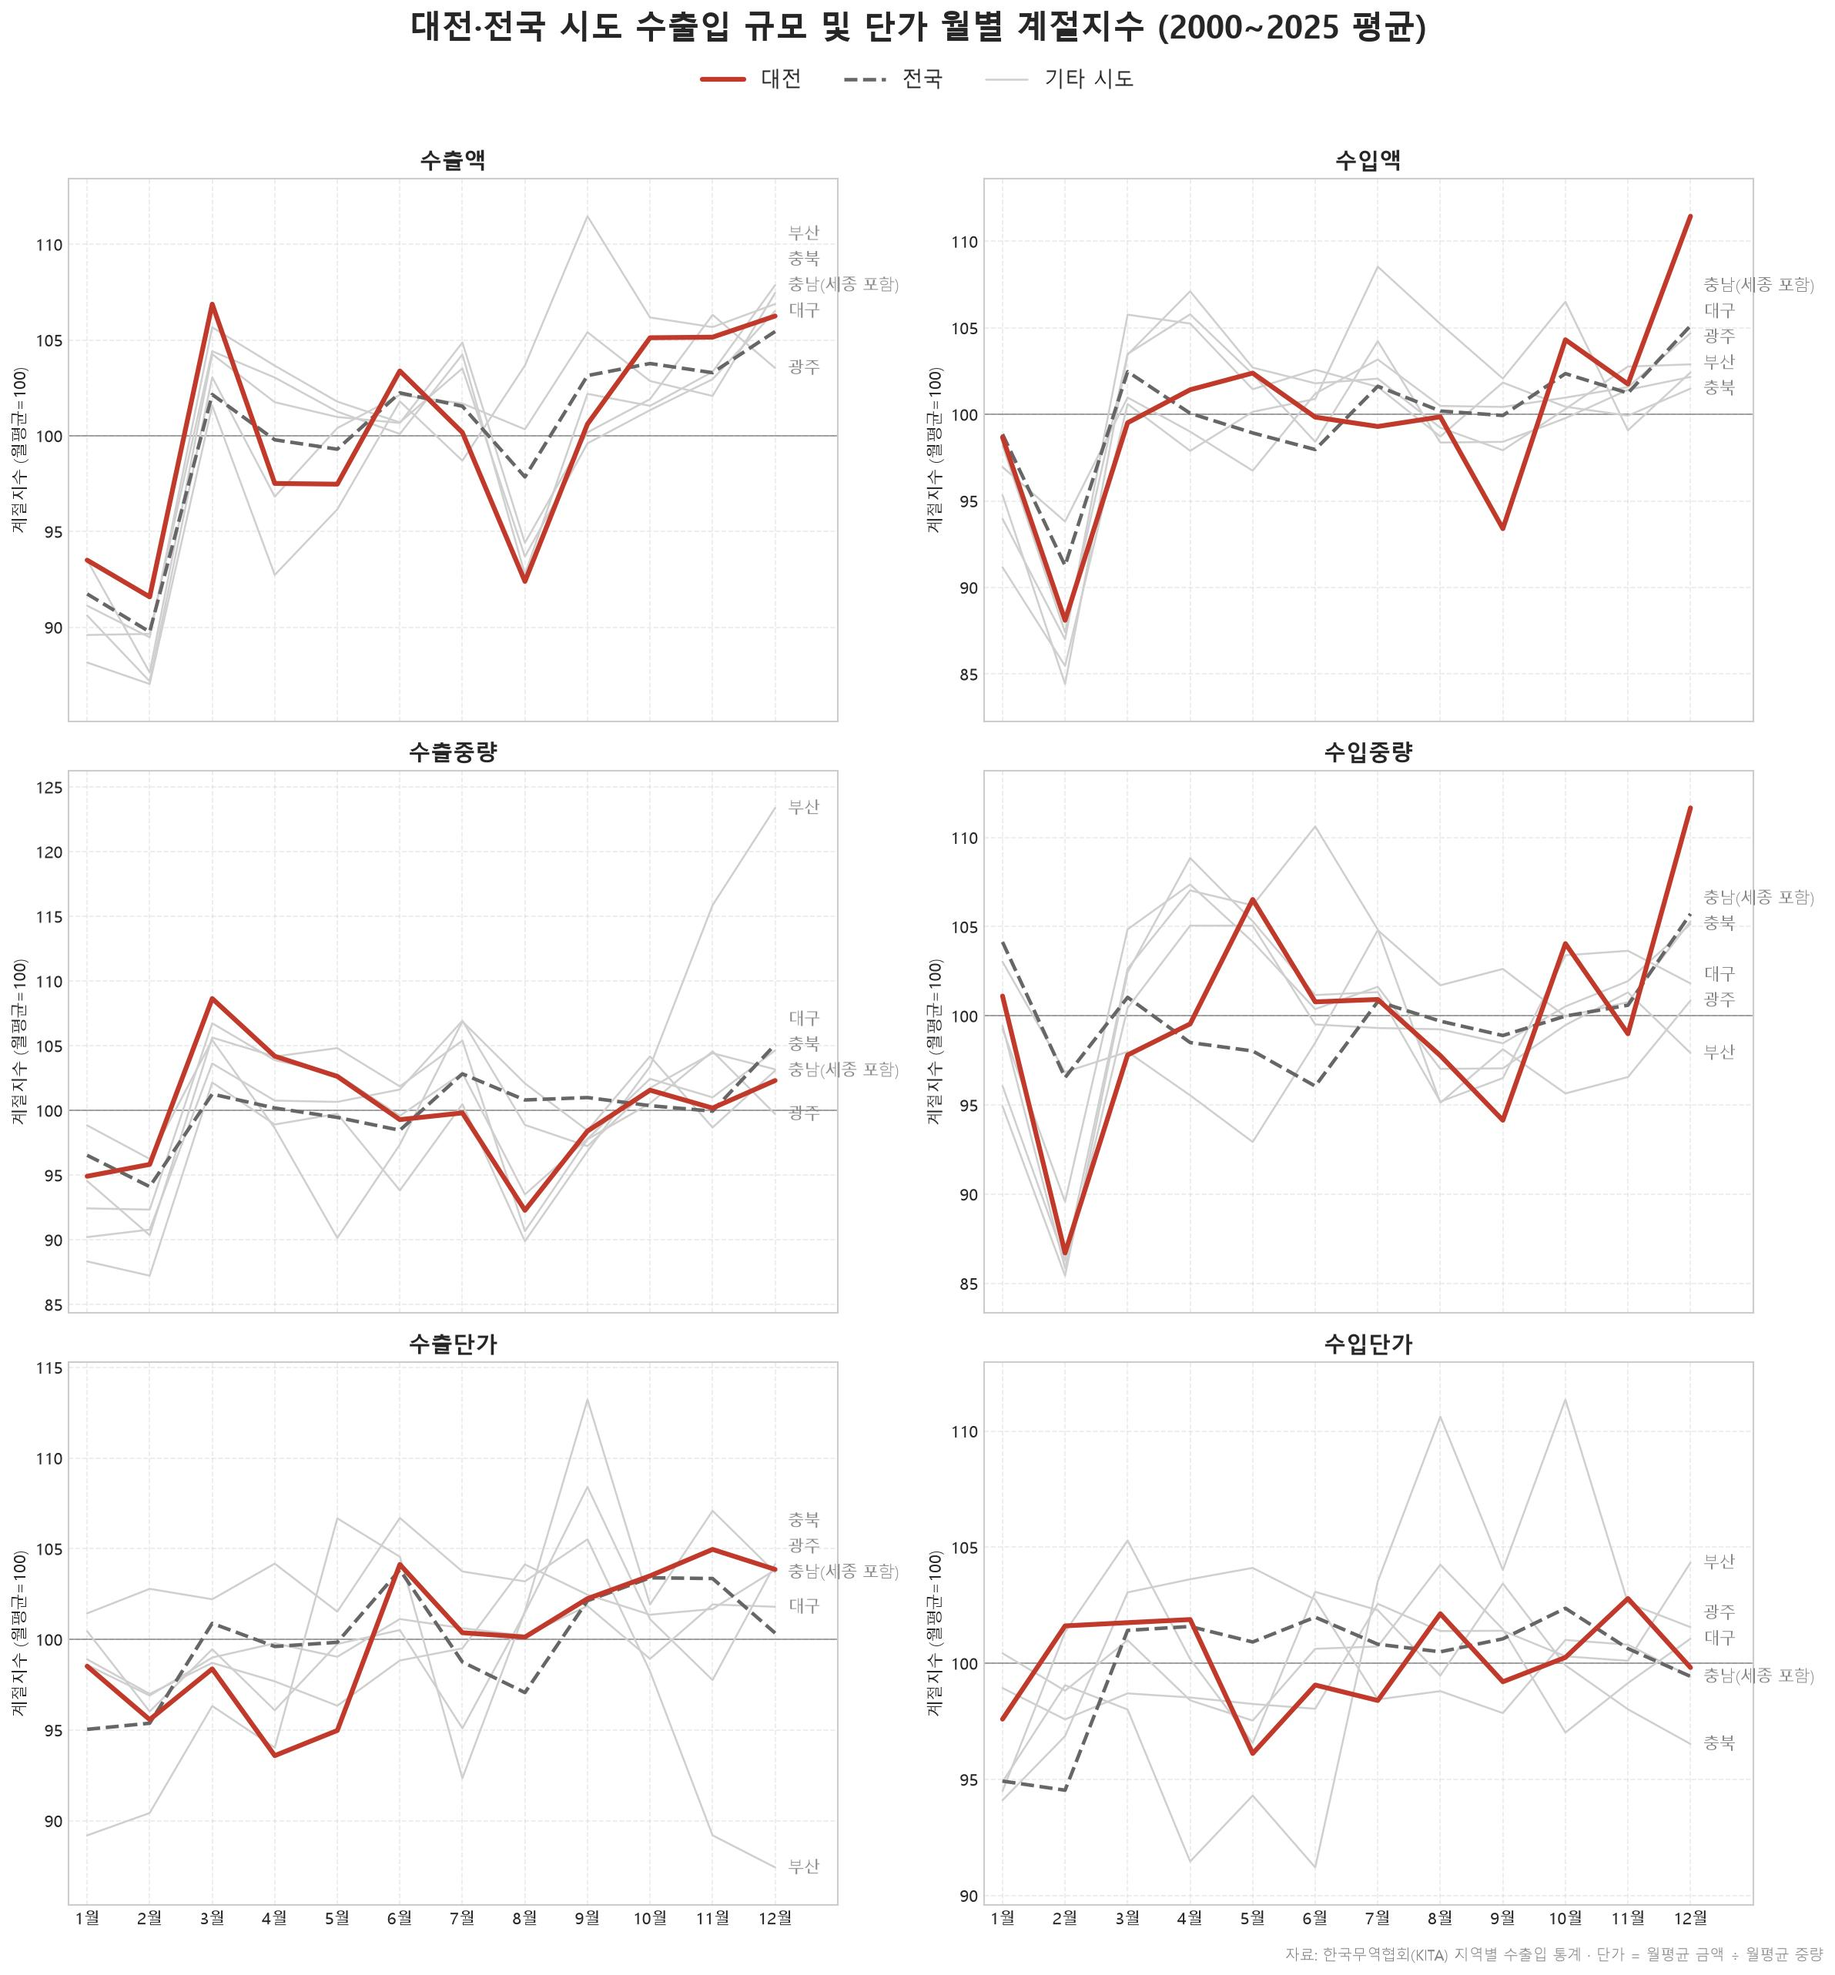
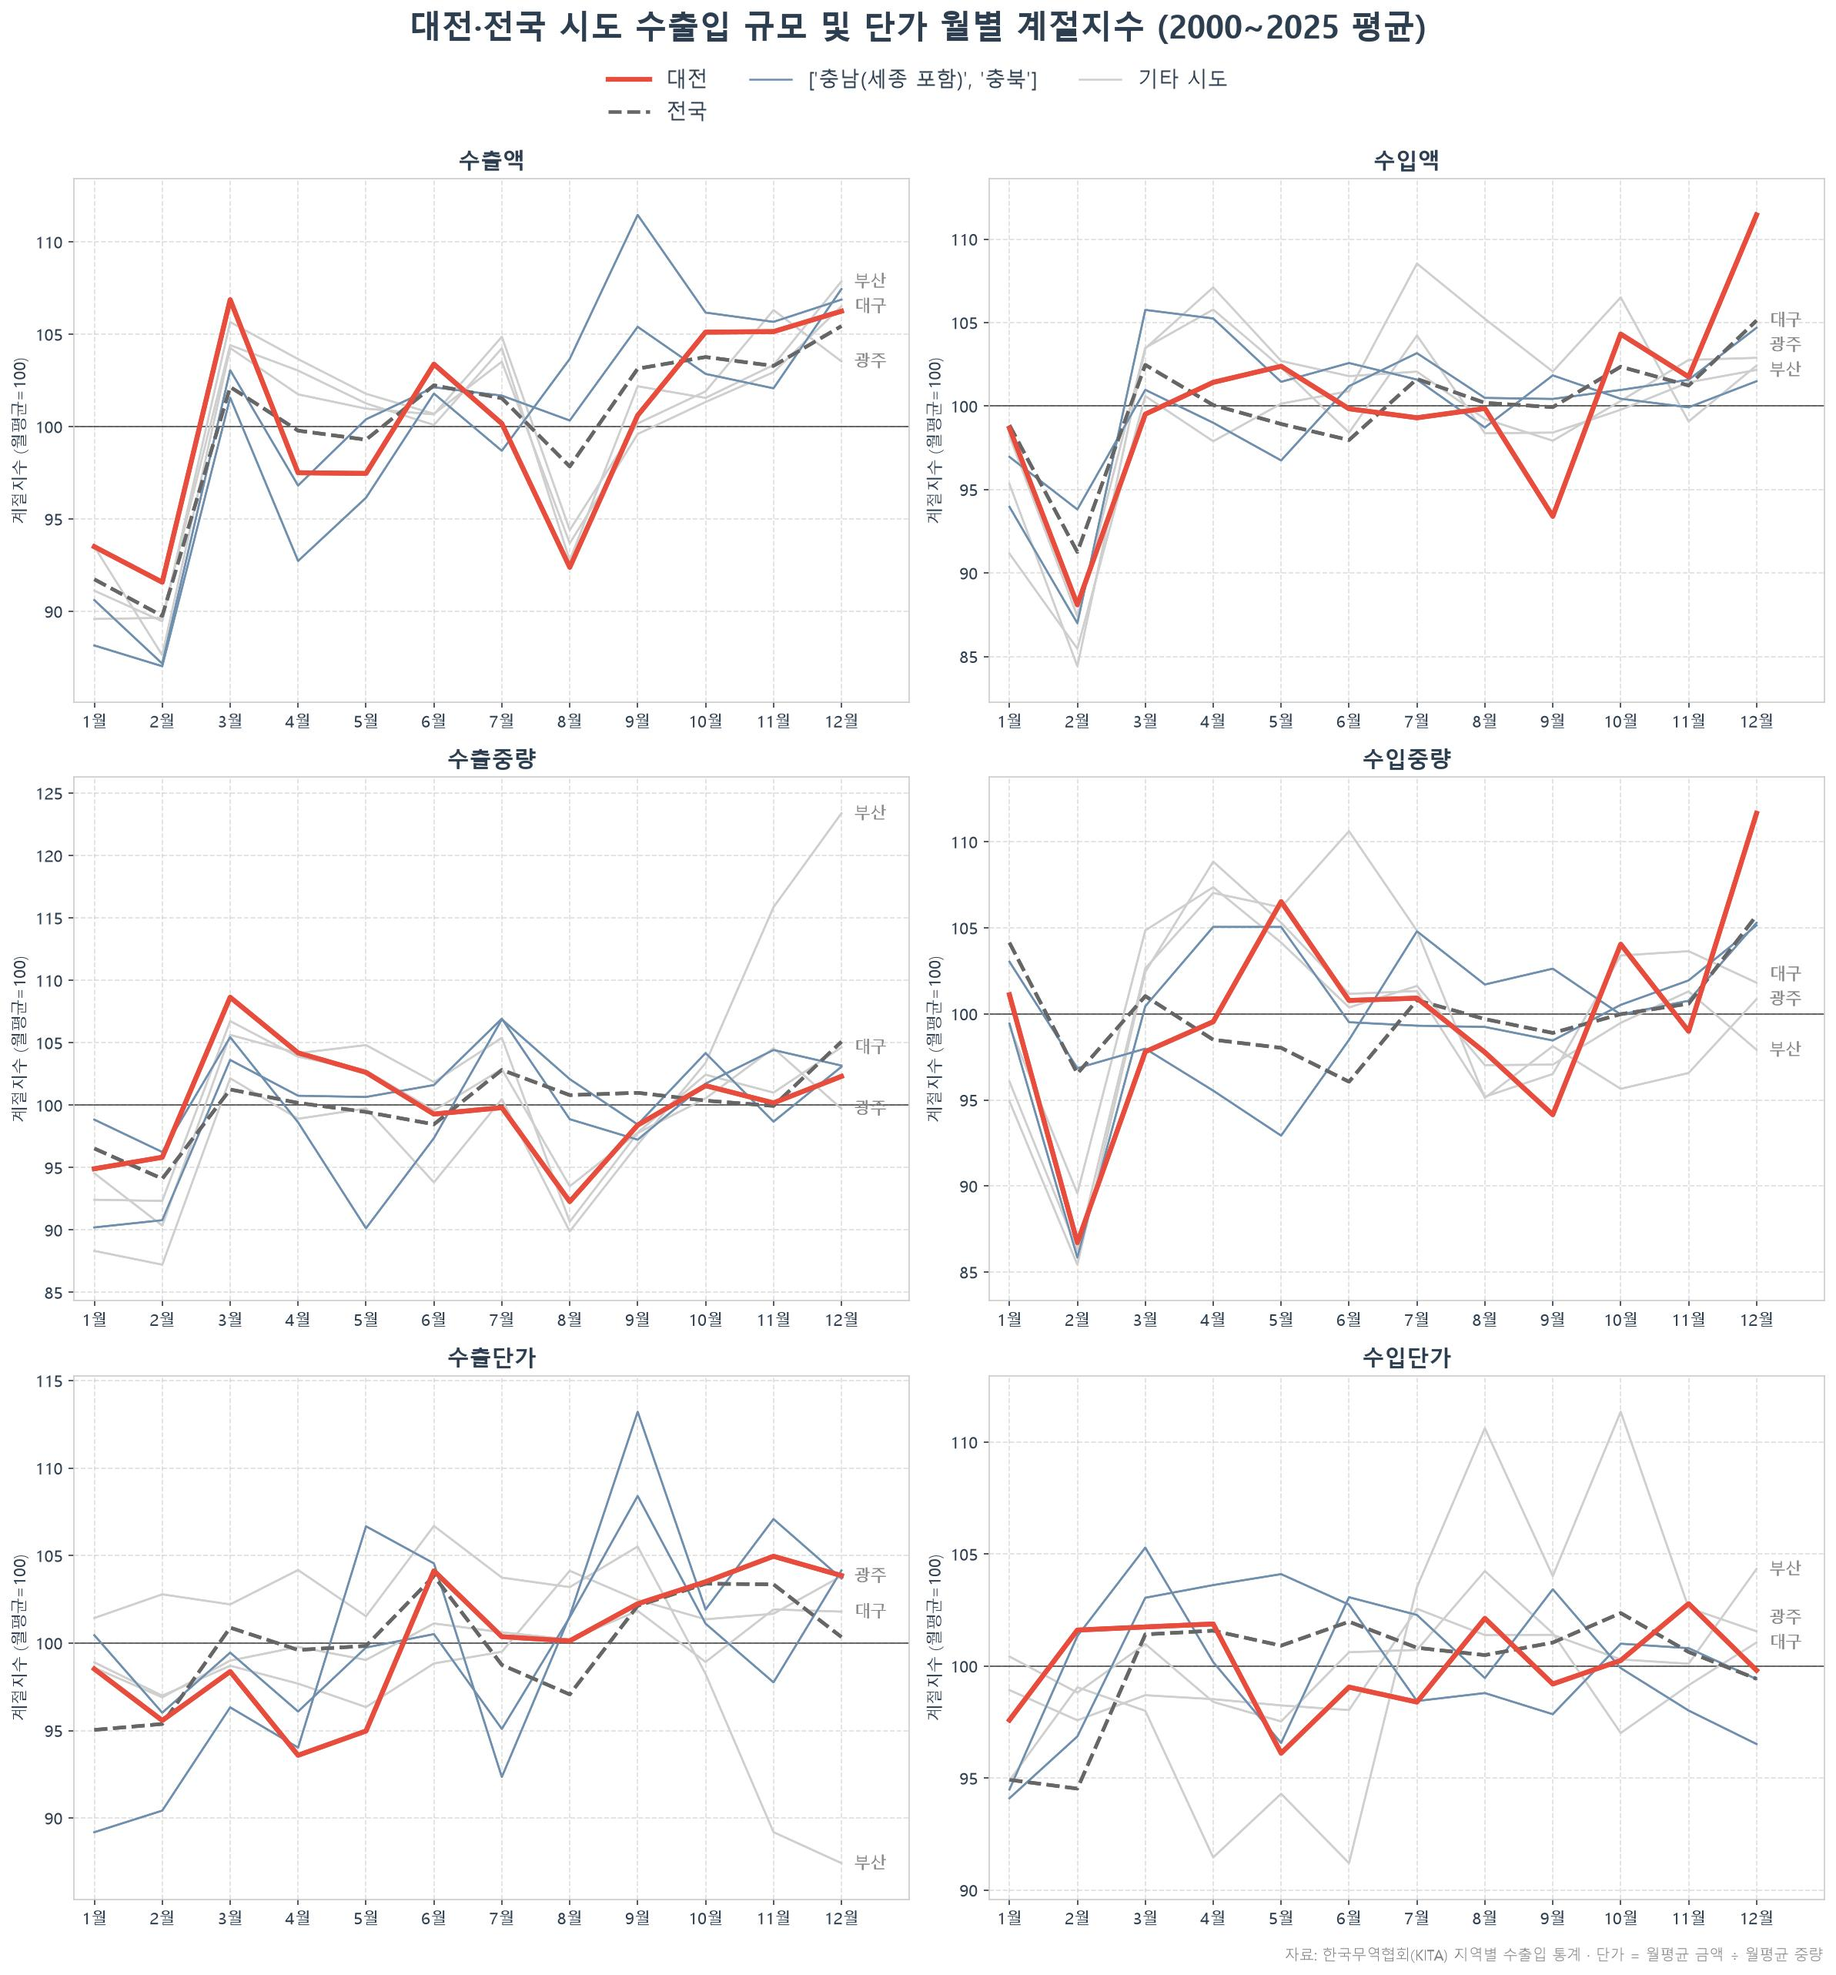
chore: change color of neighbor region daejeon_reasion_seasonal_index

diff --git a/src/vs/KITA_monthly_1_Daejeon_vs_others_monthly_avg.py b/src/vs/KITA_monthly_1_Daejeon_vs_others_monthly_avg.py
@@ -3,6 +3,7 @@
 Seasonal index for month m = (average of month m across years) / (region's overall monthly average) * 100.
 """
 
+import sys
 from pathlib import Path
 
 import matplotlib.pyplot as plt
@@ -10,7 +11,17 @@ import pandas as pd
 from matplotlib import font_manager
 from matplotlib.lines import Line2D
 
-BASE_DIR = Path(__file__).resolve().parents[2]
+SRC_DIR = Path(__file__).resolve().parents[1]
+BASE_DIR = SRC_DIR.parent
+sys.path.insert(0, str(SRC_DIR))
+from core.utils_chart import PALETTE, TRADE_DATA, save, use_korean_font
+from core.utils_regions import (
+    COMBINED_PARTS,
+    COMBINED,
+    ADJACENT_CONSISTENT,
+    SCALE_GROUP,
+)
+
 DATA_DIR = BASE_DIR / "data/processed"
 SAVE_DIR = BASE_DIR / "output"
 SAVE_DIR.mkdir(parents=True, exist_ok=True)
@@ -19,8 +30,13 @@ DATA_PATH = DATA_DIR / "kita_regional_monthly_4_added.csv"
 SAVE_PATH = SAVE_DIR / "KITA_monthly_1_Daejeon_region_seasonal_index.jpg"
 
 FOCUS_REGION = "대전"
-BENCHMARK_REGION = "전국"
-FOCUS_COLOR, BENCHMARK_COLOR = "#c0392b", "#666666"
+NATIONAL = "전국"
+
+COLOR = {
+    FOCUS_REGION: PALETTE["accent"],
+    NATIONAL: PALETTE["basic"],
+    "neighbor": PALETTE["1"],
+}
 PEER_COLOR, LABEL_COLOR = "#cfcfcf", "#888888"
 
 FLOWS = {
@@ -30,10 +46,7 @@ FLOWS = {
 METRICS = ["액", "중량", "단가"]
 
 
-plt.style.use("seaborn-v0_8-whitegrid")
-plt.rcParams["font.family"] = "sans-serif"
-plt.rcParams["font.sans-serif"] = ["Malgun Gothic", "AppleGothic", "NanumGothic"]
-plt.rcParams["axes.unicode_minus"] = False
+use_korean_font()
 
 
 def load_data(path: Path) -> pd.DataFrame:
@@ -47,9 +60,8 @@ def load_data(path: Path) -> pd.DataFrame:
     late_regions = region_start[region_start > first_year].index.tolist()
     if late_regions:
         print(f"Excluded (series starts after {first_year}): {', '.join(late_regions)}")
-    df = df[~df["지역명"].isin(late_regions)].copy()
     df = df[
-        ~df["지역명"].isin(["충남", "세종"])
+        ~df["지역명"].isin(COMBINED_PARTS)
     ].copy()  # Exclude Chungnam and Sejong for consistency.
 
     # Keep only years with all 12 months for every region: a partial year would add an
@@ -94,17 +106,20 @@ def plot_panel(
 ) -> None:
     months = index_df.index
     ax.axhline(100, color="black", linewidth=0.8, alpha=0.4)
+    peers = SCALE_GROUP
 
     for region in peers:
         ax.plot(months, index_df[region], color=PEER_COLOR, linewidth=1.2)
+    for region in ADJACENT_CONSISTENT:
+        ax.plot(months, index_df[region], color=COLOR["neighbor"], linewidth=1.2)
     ax.plot(
         months,
-        index_df[BENCHMARK_REGION],
-        color=BENCHMARK_COLOR,
+        index_df[NATIONAL],
+        color=COLOR[NATIONAL],
         linewidth=2.2,
         linestyle="--",
     )
-    ax.plot(months, index_df[FOCUS_REGION], color=FOCUS_COLOR, linewidth=3)
+    ax.plot(months, index_df[FOCUS_REGION], color=COLOR[FOCUS_REGION], linewidth=3)
 
     y_min, y_max = index_df.min().min(), index_df.max().max()
     pad = (y_max - y_min) * 0.08
@@ -139,7 +154,7 @@ def plot_panel(
 def main() -> None:
     df = load_data(DATA_PATH)
     first_year, last_year = df["연도"].min(), df["연도"].max()
-    peers = sorted(set(df["지역명"]) - {FOCUS_REGION, BENCHMARK_REGION})
+    peers = sorted(set(df["지역명"]) - {FOCUS_REGION, NATIONAL})
     panels = seasonal_indices(df)
 
     print(
@@ -148,13 +163,14 @@ def main() -> None:
     print(f"Peer regions: {', '.join(peers)}")
     for name, frame in panels.items():
         print(f"\n[{name}] seasonal index")
-        print(frame[[FOCUS_REGION, BENCHMARK_REGION, *peers]].round(1).to_string())
+        print(frame[[FOCUS_REGION, NATIONAL, *peers]].round(1).to_string())
 
-    fig, axes = plt.subplots(len(METRICS), len(FLOWS), figsize=(16, 17), sharex=True)
+    fig, axes = plt.subplots(len(METRICS), len(FLOWS), figsize=(16, 17), sharex=False)
     for row, metric in enumerate(METRICS):
         for col, flow in enumerate(FLOWS):
             name = f"{flow}{metric}"
             plot_panel(axes[row, col], panels[name], peers, name)
+            plot_panel(axes[row, col], panels[name], ADJACENT_CONSISTENT, name)
             axes[row, col].set_ylabel("계절지수 (월평균=100)")
 
     fig.suptitle(
@@ -164,13 +180,14 @@ def main() -> None:
         y=0.995,
     )
     handles = [
-        Line2D([], [], color=FOCUS_COLOR, linewidth=3),
-        Line2D([], [], color=BENCHMARK_COLOR, linewidth=2.2, linestyle="--"),
+        Line2D([], [], color=COLOR[FOCUS_REGION], linewidth=3),
+        Line2D([], [], color=COLOR[NATIONAL], linewidth=2.2, linestyle="--"),
+        Line2D([], [], color=COLOR["neighbor"], linewidth=1.2),
         Line2D([], [], color=PEER_COLOR, linewidth=1.2),
     ]
     fig.legend(
         handles,
-        [FOCUS_REGION, BENCHMARK_REGION, "기타 시도"],
+        [FOCUS_REGION, NATIONAL, ADJACENT_CONSISTENT, "기타 시도"],
         loc="upper center",
         ncol=3,
         frameon=False,

diff --git a/src/core/utils_chart.py b/src/core/utils_chart.py
@@ -31,6 +31,7 @@ PALETTE = {
     "positive": "#2b7a5c",
     "negative": "#c0563f",
     "text": "#2c3e50",
+    "basic": "#666666",
     "1": "#6F8FAF",
     "2": "#40B5AD",
     "3": "#9FE2BF",
@@ -99,9 +100,6 @@ DEVICE_FOOD = {
     "광학_정밀의료기기": PALETTE["4"],
     "기타": PALETTE["muted"],
 }
-
-# core/trade_combine.py
-import pandas as pd
 
 HS_KEYS = ["기간", "부코드", "부명약칭", "류코드", "류명약칭"]
 SUM_COLUMNS = ["수출건수", "수출금액", "수입건수", "수입금액", "무역수지"]

diff --git a/src/vs/TD_11_section_share_compare.py b/src/vs/TD_11_section_share_compare.py
@@ -30,7 +30,7 @@ from core.utils_chart import PALETTE, TRADE_DATA, save, use_korean_font
 data_dir = BASE_DIR / "data" / "processed"
 FILE_PATH = data_dir / "tradedata_2000_2025_4_added.csv"
 
-MILLION = 1_000  # source unit is thousand USD
+MILLION = 1_000
 LABEL_MIN_SHARE = 15
 
 REGION = ["대전광역시", "전국", "충청남도(세종특별자치시 포함)", "충청북도"]

diff --git a/src/tradedata_merged_clean.py b/src/tradedata_merged_clean.py
@@ -39,7 +39,7 @@
 from pathlib import Path
 import pandas as pd
 import numpy as np
-from core.regions import SIDO_SHORT
+from core.utils_regions import SIDO_SHORT
 
 base_dir = Path(".")
 data_dir = base_dir / "data/processed"

diff --git a/README.md b/README.md
@@ -33,7 +33,7 @@
 | 광학, 정밀, 의료기기 | 7.6 | 3.7 | 3.9 | 10.3 | 4.1 | 2.1 |
 | 펄프 및 종이 제품 | 6.8 | 0.5 | 0.5 | – | – | – |
 | 수송기기 | 8.0 | 16.4 | 2.6 | 3.5 | 4.4 | 1.1 |
-
+![지역별 품목차이](TD_11_section_share_compare.png)
 충청권은 충남(세종 포함)과 충북의 금액을 합산한 뒤 비중을 다시 계산했다.
 
 - **기계 및 전기기기**는 대전에서도 최대 품목이지만, 반도체 중심인 충청권(67.2%)보다 비중이 훨씬 낮다. 대전은 전국이나 충청권에 비해 전기기기보다 **기계류** 비중이 높다(TD_6).
@@ -309,4 +309,18 @@ src/
   vs/            차트 스크립트
   *.py           파이프라인 단계
 ```
+
+- Daejeon city’s export
+	- weight : before 20 > after 20
+	- USD/kg : before 20 < after 20 - Covid19?
+	- covid term weight ↓(unit↑)
+	- usually import high value product
+	- and its export unit used to similar with nationals flow but it has gradually risen
+- monthly avg import / export value / weight
+	- export(value)
+		- low : 1 2 4 5 8 - 추석설날
+		- high : 3 6 10 11 12
+	- import(value)
+		- low : 2 9
+		- high : 5 10(추석?) 12
 
